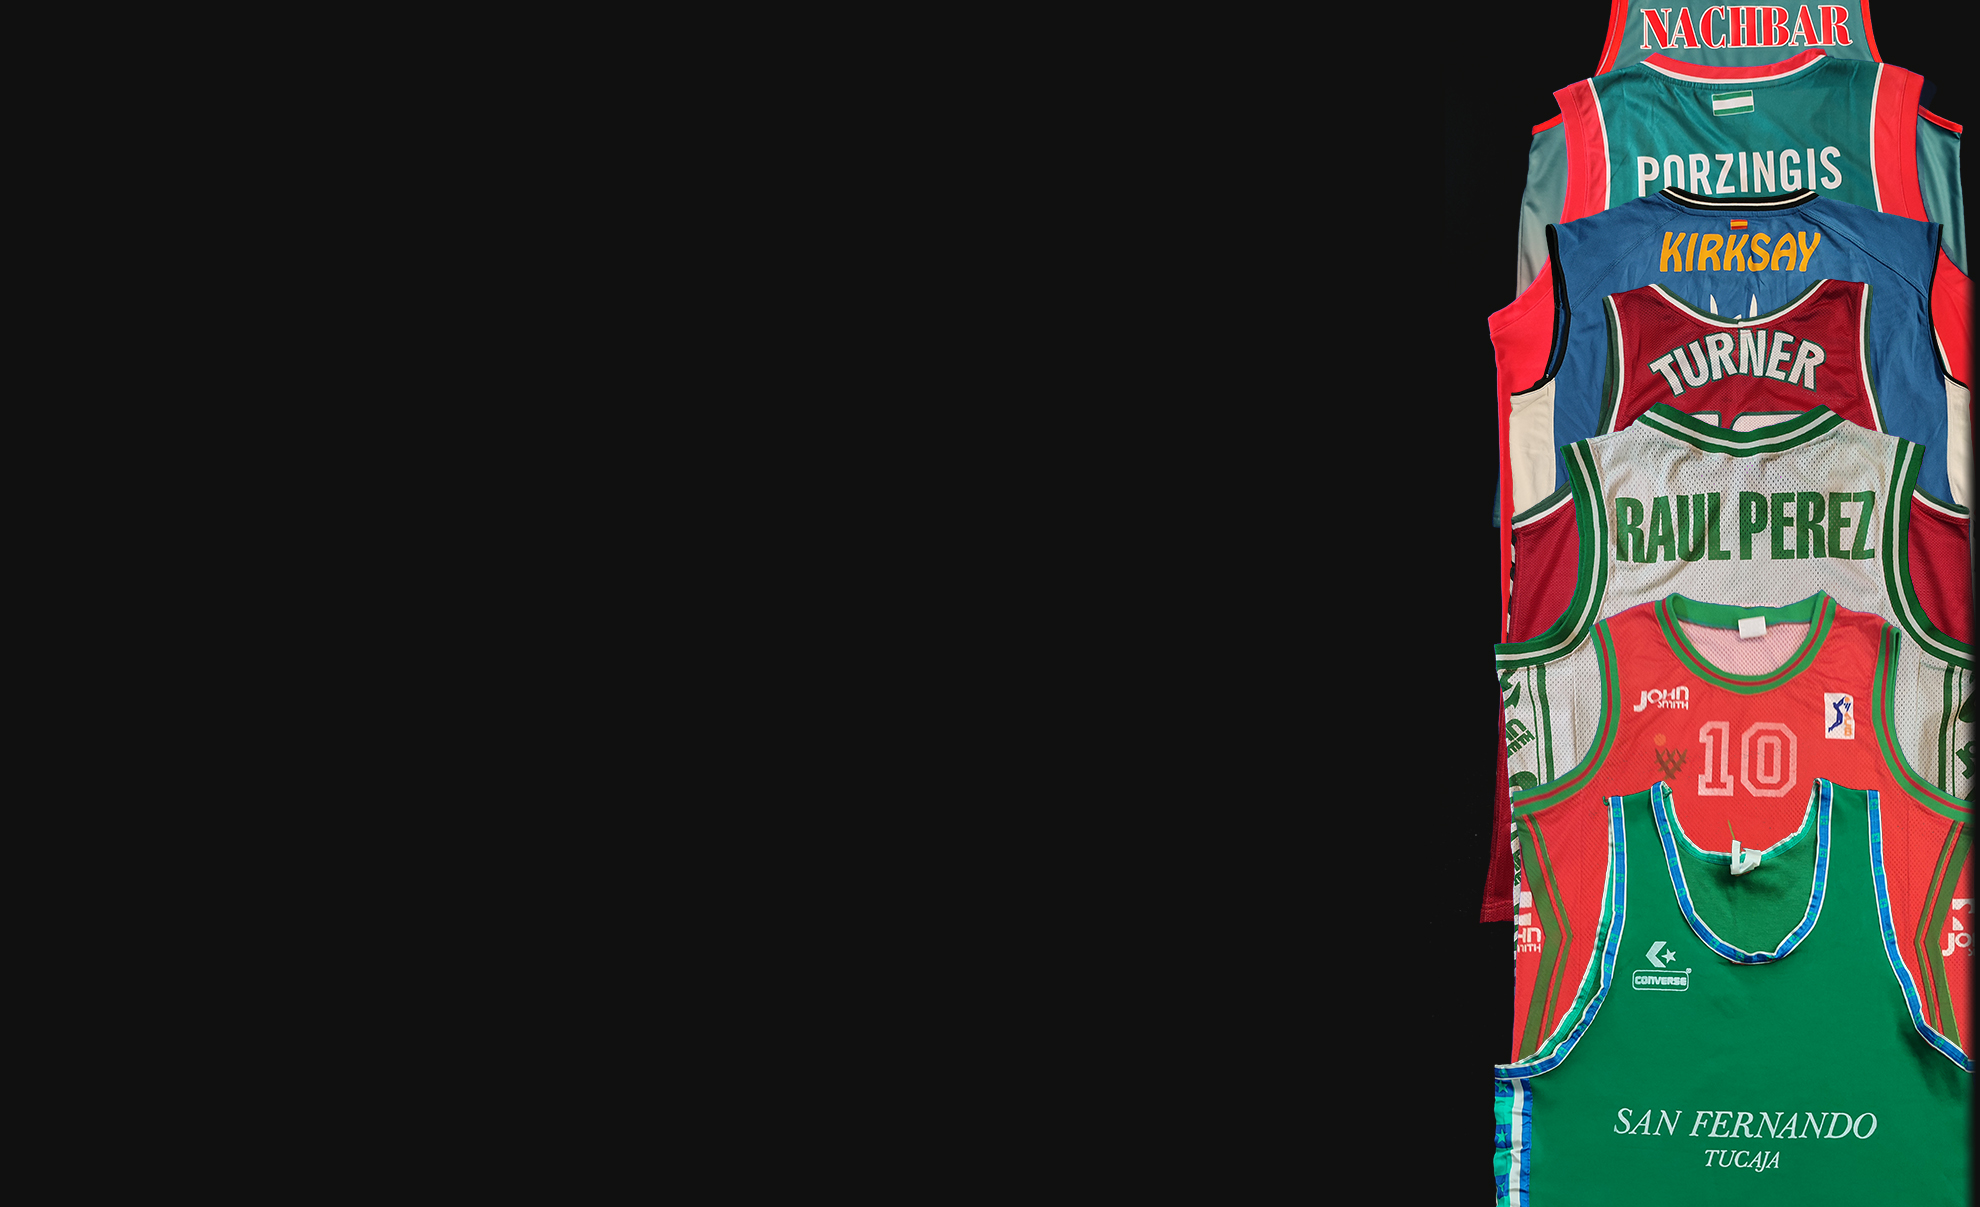
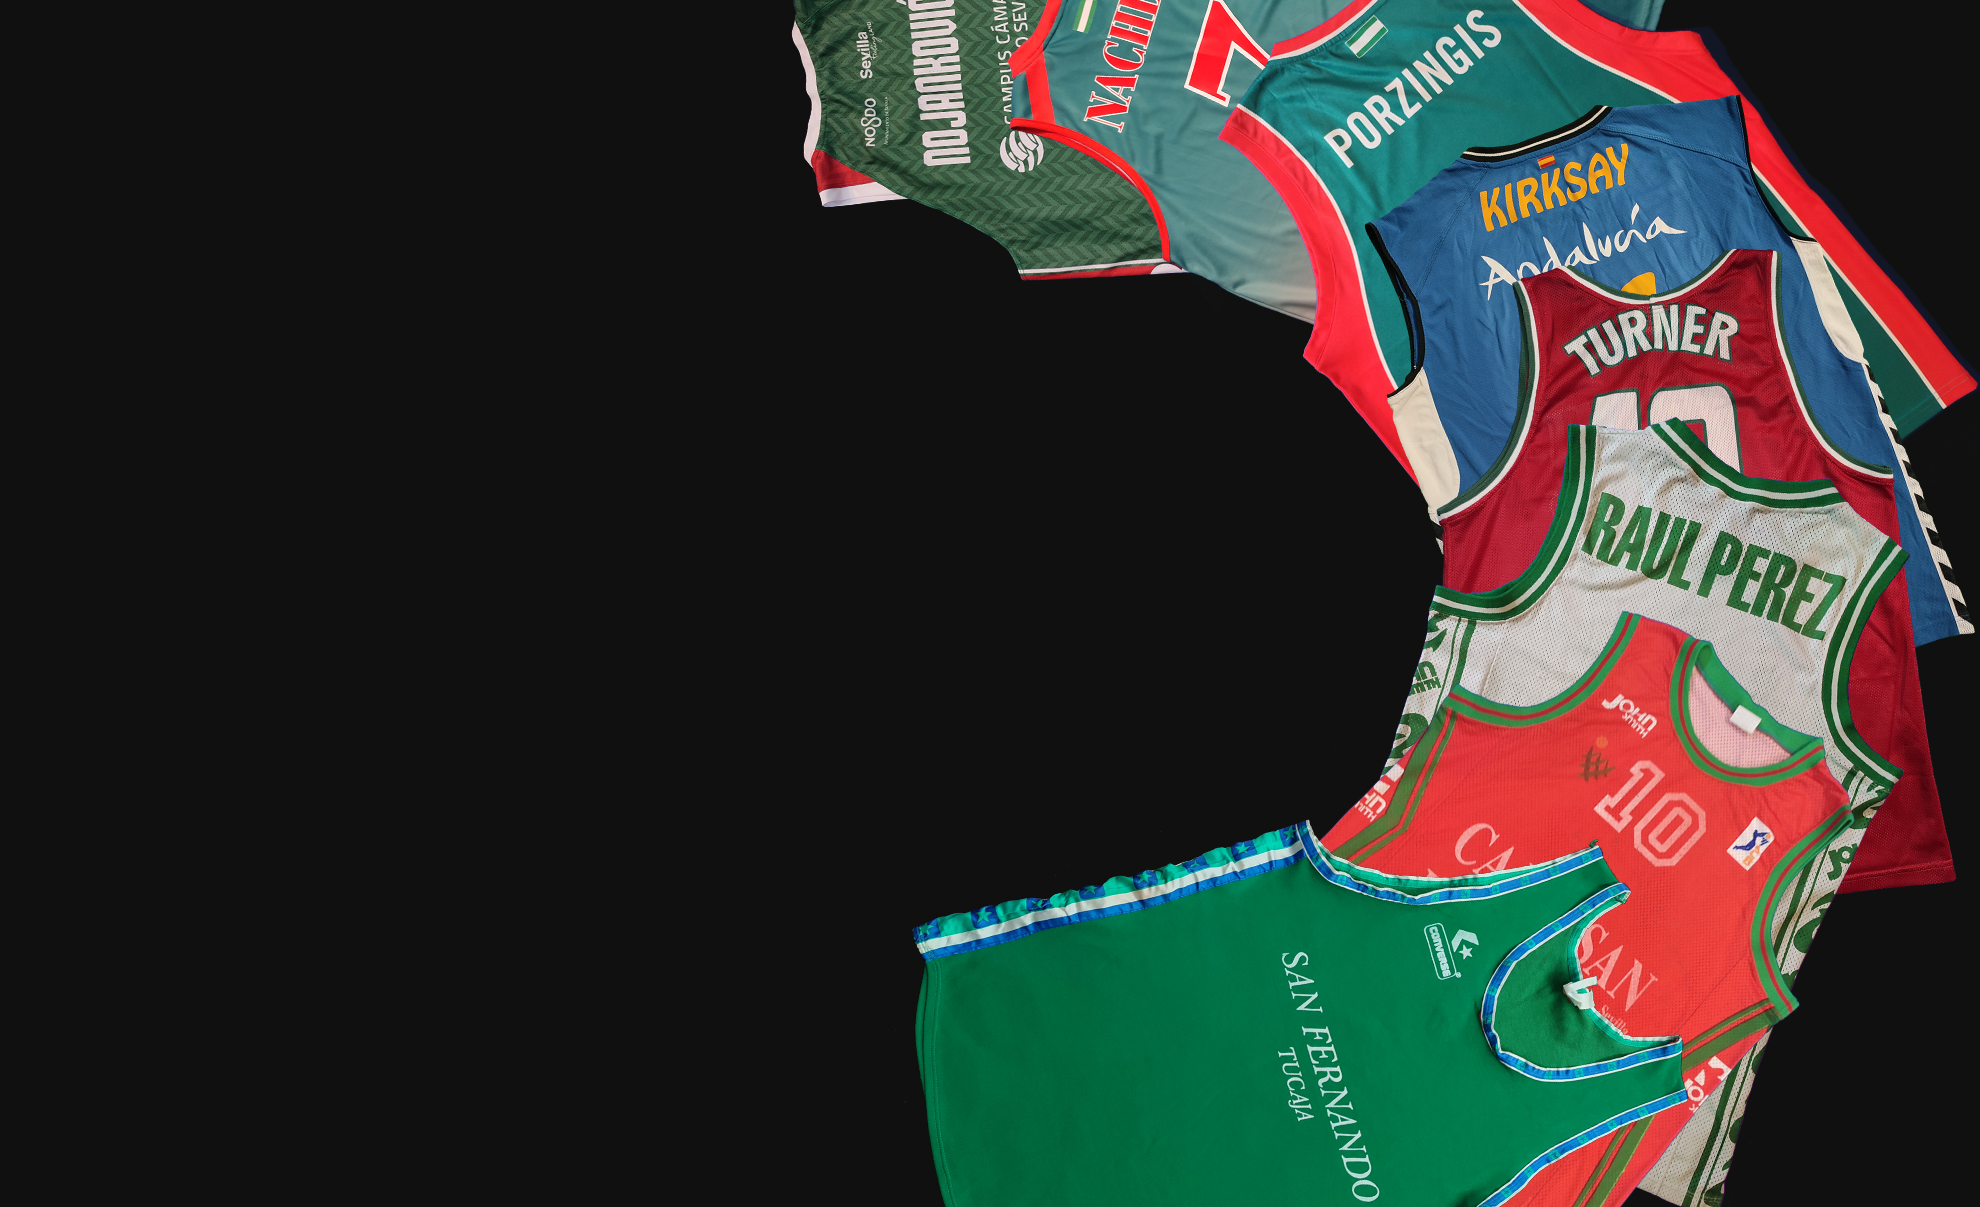
Corrección de Errores

diff --git a/VERSIONS.md b/VERSIONS.md
@@ -27,8 +27,13 @@ Objetivo
 Objetivo
 - Se ha incluido la configuración para que la pagina muestre las camisetas de Piel Cajista y de SFC Closet
 ## TODO
+### General
+- Fichero de settings que indique donde están los ficheros json de products y de presentation
 - Desactivar el botón derecho en la pagina
 - Cambiar flechas por otra opción mas minimalista / elegante
+- Posibilidad de añadir al carrusel más imágenes a parte de imageFron e imageBack, cambio en el products.json y en la ficha
+### PielCajista
+- Añadir al detail products.json el equipo.
 
 
 
